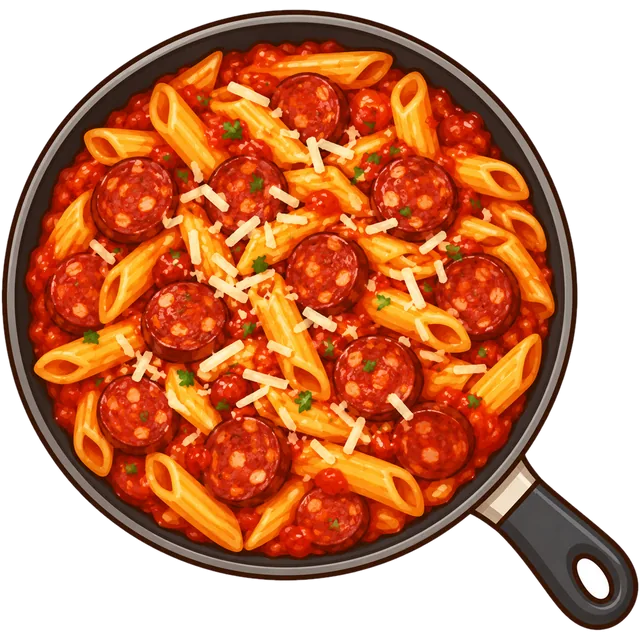
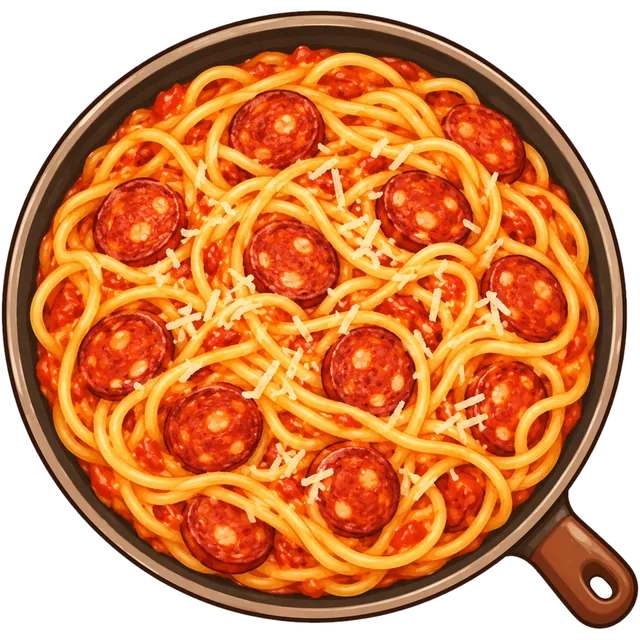
Chorizo-pastaen tegnet med spaghetti, som opskriften bruger (ikke penne)
Codex-prompten sagde penne; opskriften har 400 g spaghetti. Hele panden med håndtag er i billedet.

diff --git a/sw.js b/sw.js
@@ -7,7 +7,7 @@
    test/test-sw.js tjekker, at FILER er komplet, og fejler, når en fil er ændret. Fejlbeskeden viser den nye værdi;
    testen ændrer ikke sw.js, så den sættes her i hånden. */
 const PRAEFIKS = 'kog-';
-const INDHOLD = '9e08c76f0dbd4bbf'; // sha256 (16 tegn) af FILER — sæt den værdi, test/test-sw.js viser i fejlbeskeden
+const INDHOLD = '20cc4ba09fbf4b15'; // sha256 (16 tegn) af FILER — sæt den værdi, test/test-sw.js viser i fejlbeskeden
 const VERSION = PRAEFIKS + INDHOLD;
 const LYD = '24ce7831ce32a950'; // sha256 (16 tegn) af lydfilerne (lyd/*/*.mp3) — sæt den værdi, test/test-sw.js viser
 const LYD_CACHE = PRAEFIKS + 'lyd-' + LYD;
